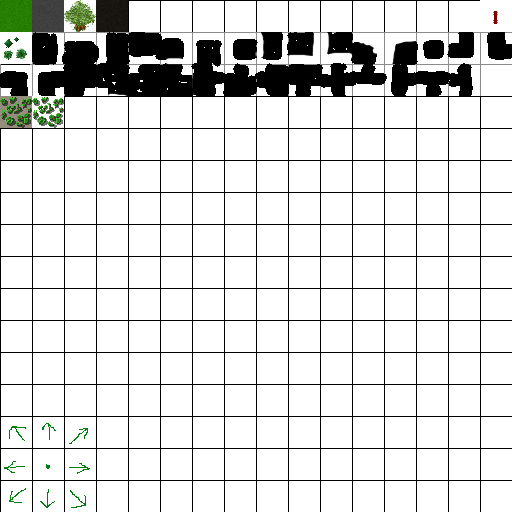
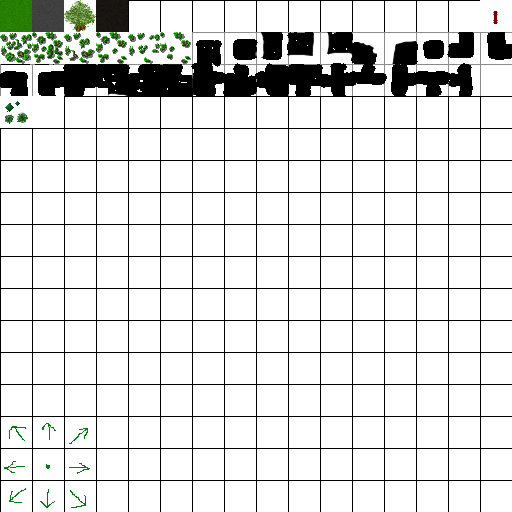
Added basic forest texture variation

Changed region(s): [[0.0, 0.0625, 0.375, 0.125], [0.0, 0.1875, 0.125, 0.25]]

diff --git a/render.js b/render.js
@@ -61,8 +61,46 @@ render.draw = function(map) {
     	//Building:
     	switch(tile.building.type) {
     		 case BUILDING_TYPES.forest:
-                sx=1;
-                sy=3;
+                switch(tile.building.data.density) {
+                    case 1:
+                         switch(tile.building.data.variation) {
+                             case 0:
+                                 sx=4;
+                                 sy=1;
+                             break;
+                             case 1:
+                                 sx=5;
+                                 sy=1;
+                             break;
+                         }
+                    break;
+
+                    case 2:
+                         switch(tile.building.data.variation) {
+                             case 0:
+                                 sx=2;
+                                 sy=1;
+                             break;
+                             case 1:
+                                 sx=3;
+                                 sy=1;
+                             break;
+                         }
+                    break;
+
+                    case 3:
+                         switch(tile.building.data.variation) {
+                             case 0:
+                                 sx=0;
+                                 sy=1;
+                             break;
+                             case 1:
+                                 sx=1;
+                                 sy=1;
+                             break;
+                         }
+                    break;
+                }
                 scol = "green";
     		 break;
     		 case BUILDING_TYPES.pylon:

diff --git a/tiles/tile_forest.js b/tiles/tile_forest.js
@@ -14,4 +14,7 @@ tile_forest.update = function(map, x, y, recursive) {
 		}
 	}
 	map.tiles[x][y].building.data.neighbours = neighbours;
+	map.tiles[x][y].building.data.density = Math.min(Math.round(0.5 + 3 * neighbours / 8), 8); //TODO: Seed!
+	map.tiles[x][y].building.data.variation = Math.round(Math.random() * 1); //TODO: Seed!
+
 };
